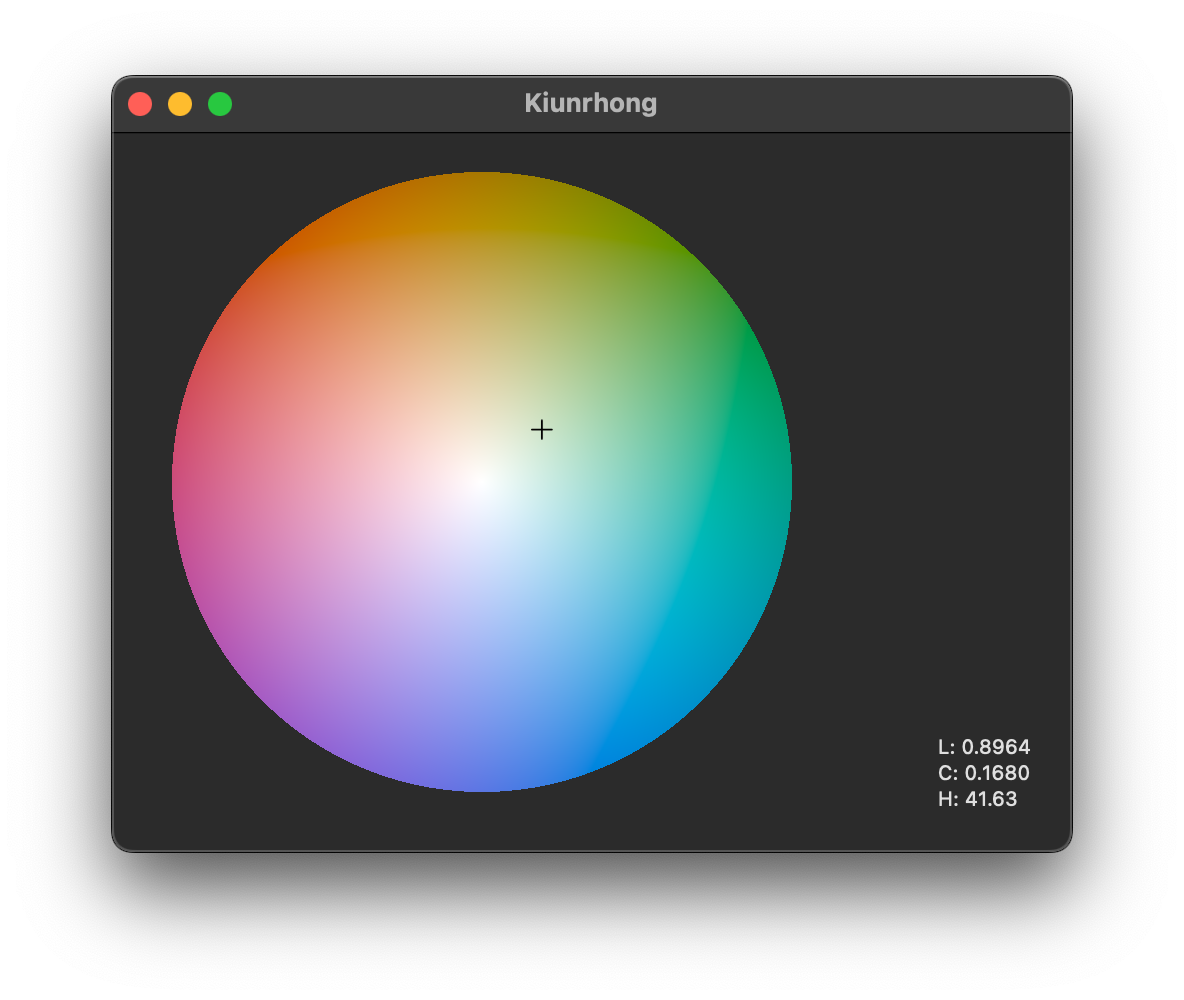
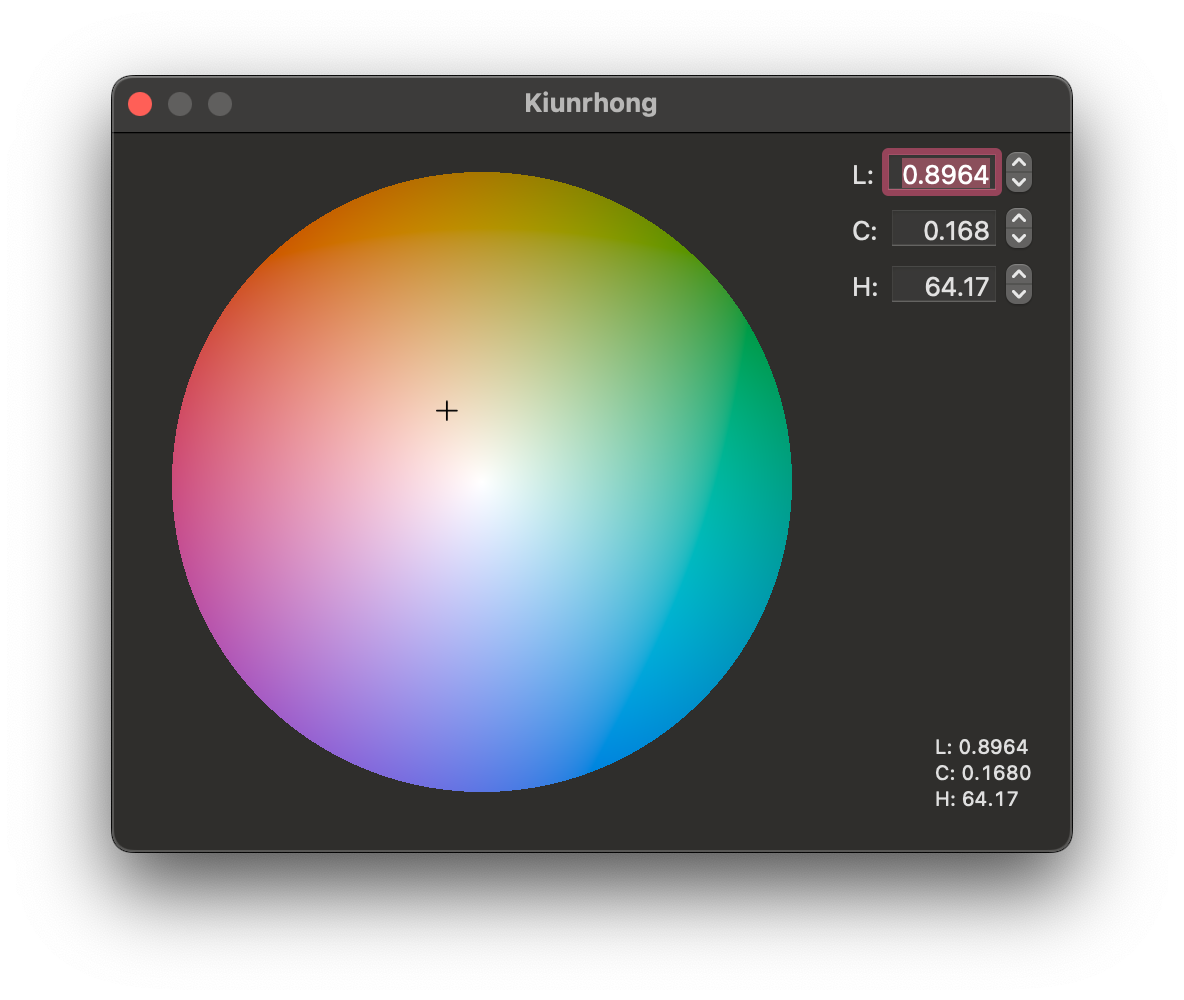
Update project window and settings

diff --git a/Kiunrhong/AppDelegate.swift b/Kiunrhong/AppDelegate.swift
@@ -13,7 +13,7 @@ class AppDelegate: NSObject, NSApplicationDelegate {
 
     func createApplicationWindow() -> NSWindow {
         let window = NSWindow(contentRect: .init(x: 0, y: 0, width: 480, height: 360),
-                          styleMask: [.titled, .closable, .resizable, .miniaturizable], backing: .buffered, defer: false)
+                              styleMask: [.titled, .closable], backing: .buffered, defer: false)
         window.title = "Kiunrhong"
         window.contentView = ColorPickerView()
         return window
